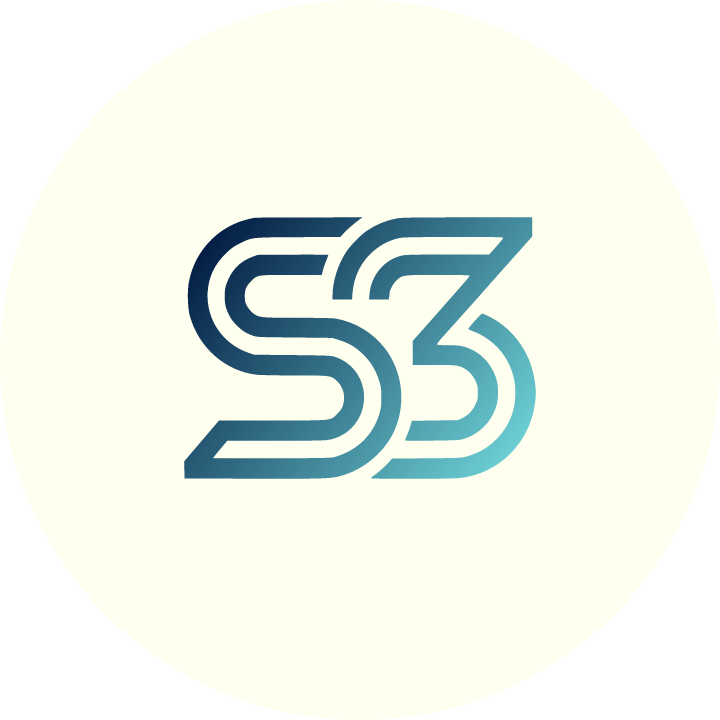
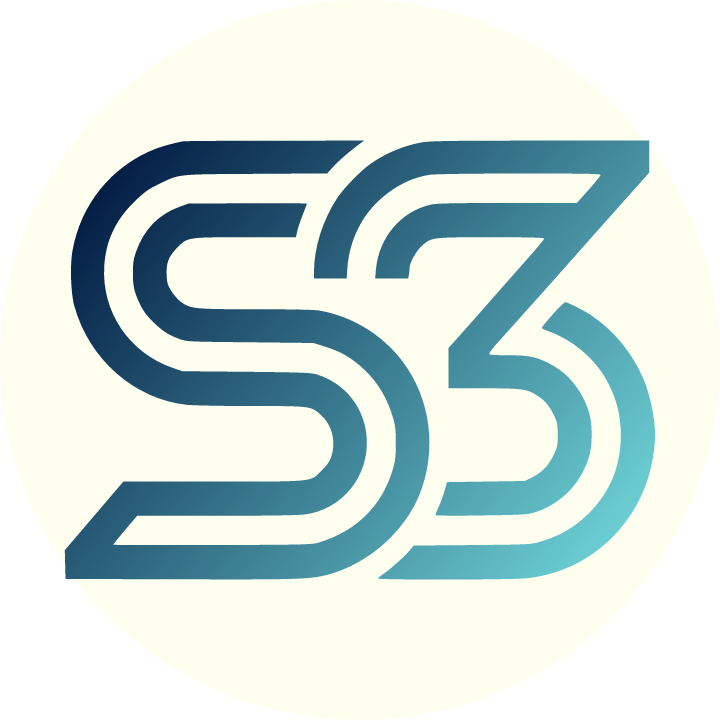
fix

Changed region(s): [[0.0917, 0.1833, 0.9167, 0.825]]

diff --git a/src/lib/mark.ts b/src/lib/mark.ts
@@ -10,6 +10,16 @@
 
 export const S3_MARK_VIEWBOX = "0 0 1024 1024";
 
+// The traced mark only fills ~49% of S3_MARK_VIEWBOX's width and ~36% of its
+// height (measured via the rendered <path>'s getBBox(), mapped through
+// S3_MARK_TRANSFORM: local bbox x[2619,7620] y[3429.84,7150] -> final-space
+// x[261.9,762.0] y[309.0,681.0]) — the rest is dead ivory space baked into
+// the source trace. For contexts where the mark is the whole graphic (the
+// circular nav/Facebook badge), crop to this tighter box instead so it reads
+// at full size; the path/transform are untouched, this only changes which
+// slice of the same 1024x1024 canvas is shown. ~82% width fill, ~61% height.
+export const S3_MARK_BADGE_VIEWBOX = "207 190 610 610";
+
 // Applies potrace's internal decipoint coordinate system to plain SVG
 // user-space units. Keep this paired with S3_MARK_PATH — don't transform
 // the path data itself, transform the group it's drawn in.

diff --git a/src/app/globals.css b/src/app/globals.css
@@ -8,10 +8,18 @@
   /* Was a cool blue-white (#eaf0ff) — unified with the ivory palette so
      headlines/primary text match the logo badge and buttons exactly. */
   --fg: #fffff0;
-  --muted: #0d4e67;
+  /* Secondary/body-copy text color. WCAG AA needs >=4.5:1 for normal text —
+     this value drifted through a few darker teals (down to a 2.19:1 fail
+     against --bg) before landing here. #7f8db8 gives 6.09:1 on --bg, 5.86:1
+     on --bg-elevated, 5.58:1 on --surface and 5.07:1 on --accent — verified
+     with the WCAG relative-luminance formula, not eyeballed. Keep any future
+     change to this token >=4.5:1 against --bg. */
+  --muted: #7f8db8;
   --accent: #031d44;
   --accent-bright: #6ccfd4;
-  --cyan: #0d4e67;
+  /* Vivid status/"live" accent (dots, badges) — was accidentally sharing
+     --muted's broken value. 10.73:1 against --bg. */
+  --cyan: #2dd4bf;
   --white: #fffff0;
   color-scheme: dark;
 }

diff --git a/src/components/Logo.tsx b/src/components/Logo.tsx
@@ -3,11 +3,11 @@
 import { useId } from "react";
 import {
   S3_MARK_BACKING,
+  S3_MARK_BADGE_VIEWBOX,
   S3_MARK_GRADIENT_COORDS,
   S3_MARK_GRADIENT_STOPS,
   S3_MARK_PATH,
   S3_MARK_TRANSFORM,
-  S3_MARK_VIEWBOX,
 } from "@/lib/mark";
 
 /** The S3 mark on its cream backing — the mark's dark-navy end disappears
@@ -21,7 +21,7 @@ export function Logo({ className = "" }: { className?: string }) {
       className={`inline-flex shrink-0 items-center justify-center rounded-full p-1 ${className}`}
       style={{ background: S3_MARK_BACKING }}
     >
-      <svg viewBox={S3_MARK_VIEWBOX} className="h-full w-full" aria-hidden>
+      <svg viewBox={S3_MARK_BADGE_VIEWBOX} className="h-full w-full" aria-hidden>
         <defs>
           <linearGradient id={gradId} x1={x1} y1={y1} x2={x2} y2={y2}>
             {S3_MARK_GRADIENT_STOPS.map((s) => (
